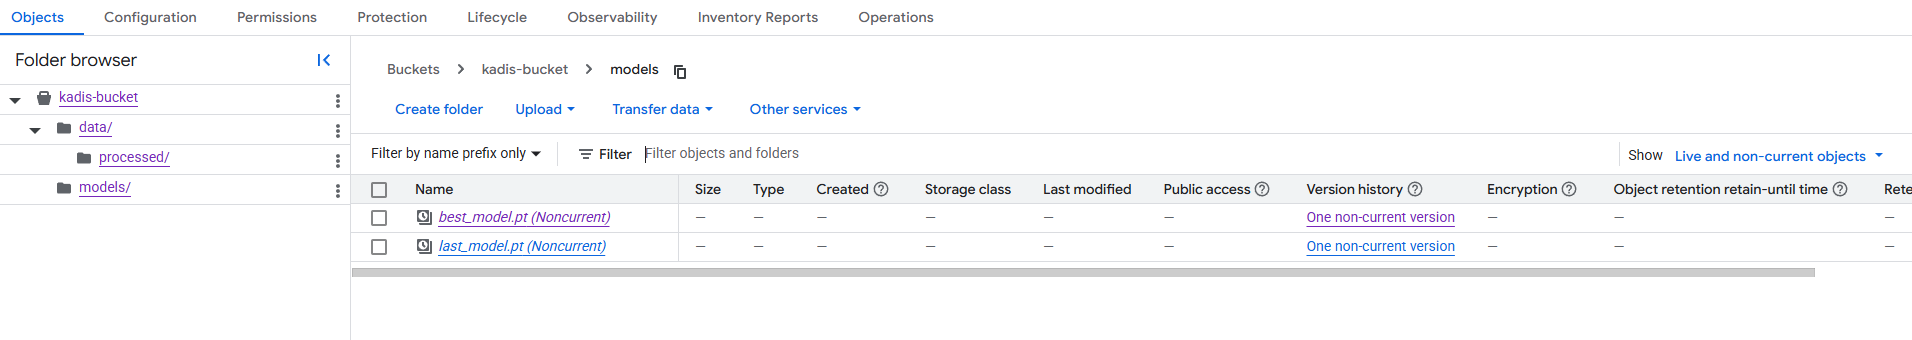
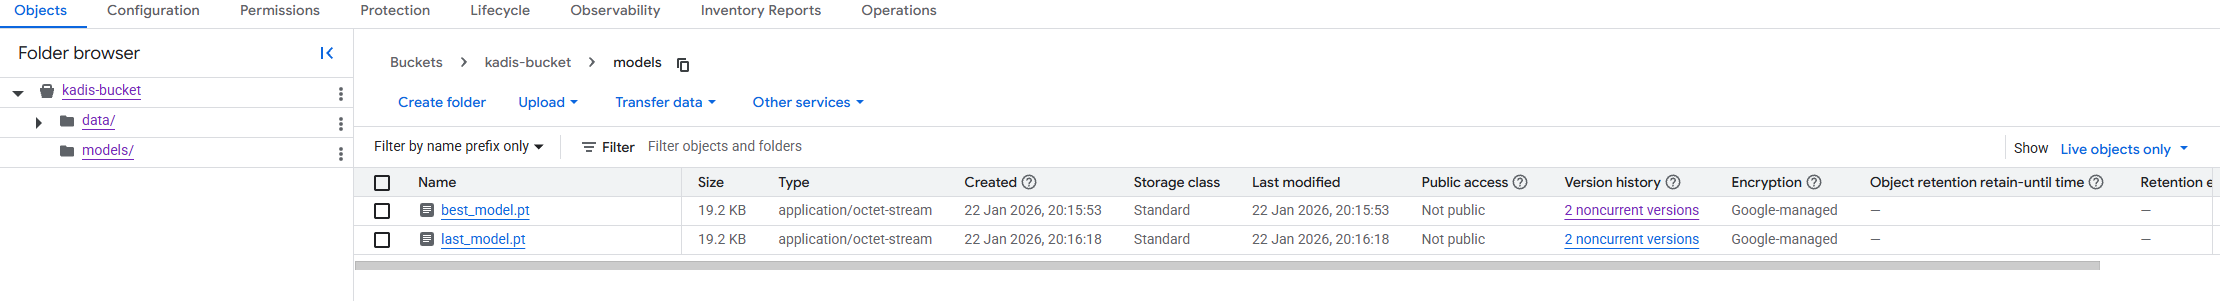
Slightly updated answers to some questions. Updated image for GCP bucket models

diff --git a/reports/README.md b/reports/README.md
@@ -114,8 +114,8 @@ will check the repositories and the code to verify your answers.
 * [x] Write some documentation for your application (M32)
 * [ ] Publish the documentation to GitHub Pages (M32)
 * [x] Revisit your initial project description. Did the project turn out as you wanted?
-* [-] Create an architectural diagram over your MLOps pipeline (eduard)
-* [-] Make sure all group members have an understanding about all parts of the project
+* [ ] Create an architectural diagram over your MLOps pipeline (eduard)
+* [x] Make sure all group members have an understanding about all parts of the project
 * [x] Uploaded all your code to GitHub
 
 ## Group information
@@ -199,7 +199,8 @@ reproducible pipeline across different machines.
 
 From the cookiecutter template we have filled out the tests, .github, data, dockerfiles, models, reports, wandb, configs
 and src folder. We have removed the notebooks folder because we did not use any Jupyter notebooks in our project.
-We have added: (1) .dvc folder to manage our remote connection to Google Cloud Storage,
+We have added:
+(1) .dvc folder to manage our remote connection to Google Cloud Storage,
 (2) scripts folder to hold helper-script to create smaller data files for testing,
 (3) outputs folder for running our experiments,
 (4) src/mlo_group_project/training folder to hold helper classes for training.py,
@@ -264,7 +265,7 @@ between 0-1), and that there is no data leakage between training and test sets.
 >
 > Answer:
 
-The total code coverage is currently 53% (tested by running `uv run invoke test`). Even if we achieved 100% code
+The total code coverage is currently 56% (tested by running `uv run invoke test`). Even if we achieved 100% code
 coverage, we would not trust the system to be completely error-free. Code coverage only measures which lines of code
 were executed during testing, not whether the logic or the results are correct. Still, it would be worthwhile to run
 more code than not since it helps catch errors early. It is also important to test which files are actually generating
@@ -729,6 +730,7 @@ It was good to get some free credits and test the environment. In the future we 
 We implemented a simple frontend for our API using Streamlit. We did this because it allows non-technical users
 to interact with the model and visualize predictions in real-time without needing to use terminal commands or raw
 HTTP requests.
+We also experiemented much more with visualisation than the report checkboxes suggest, since we find this one of the most important parts of making sure things are running as they should. Data and results are much easier to understand if properly visualised. Just seeing a high accuracy does not neccesarily mean it is a good model or is doing what we wanted it to do. 
 
 ### Question 29
 
